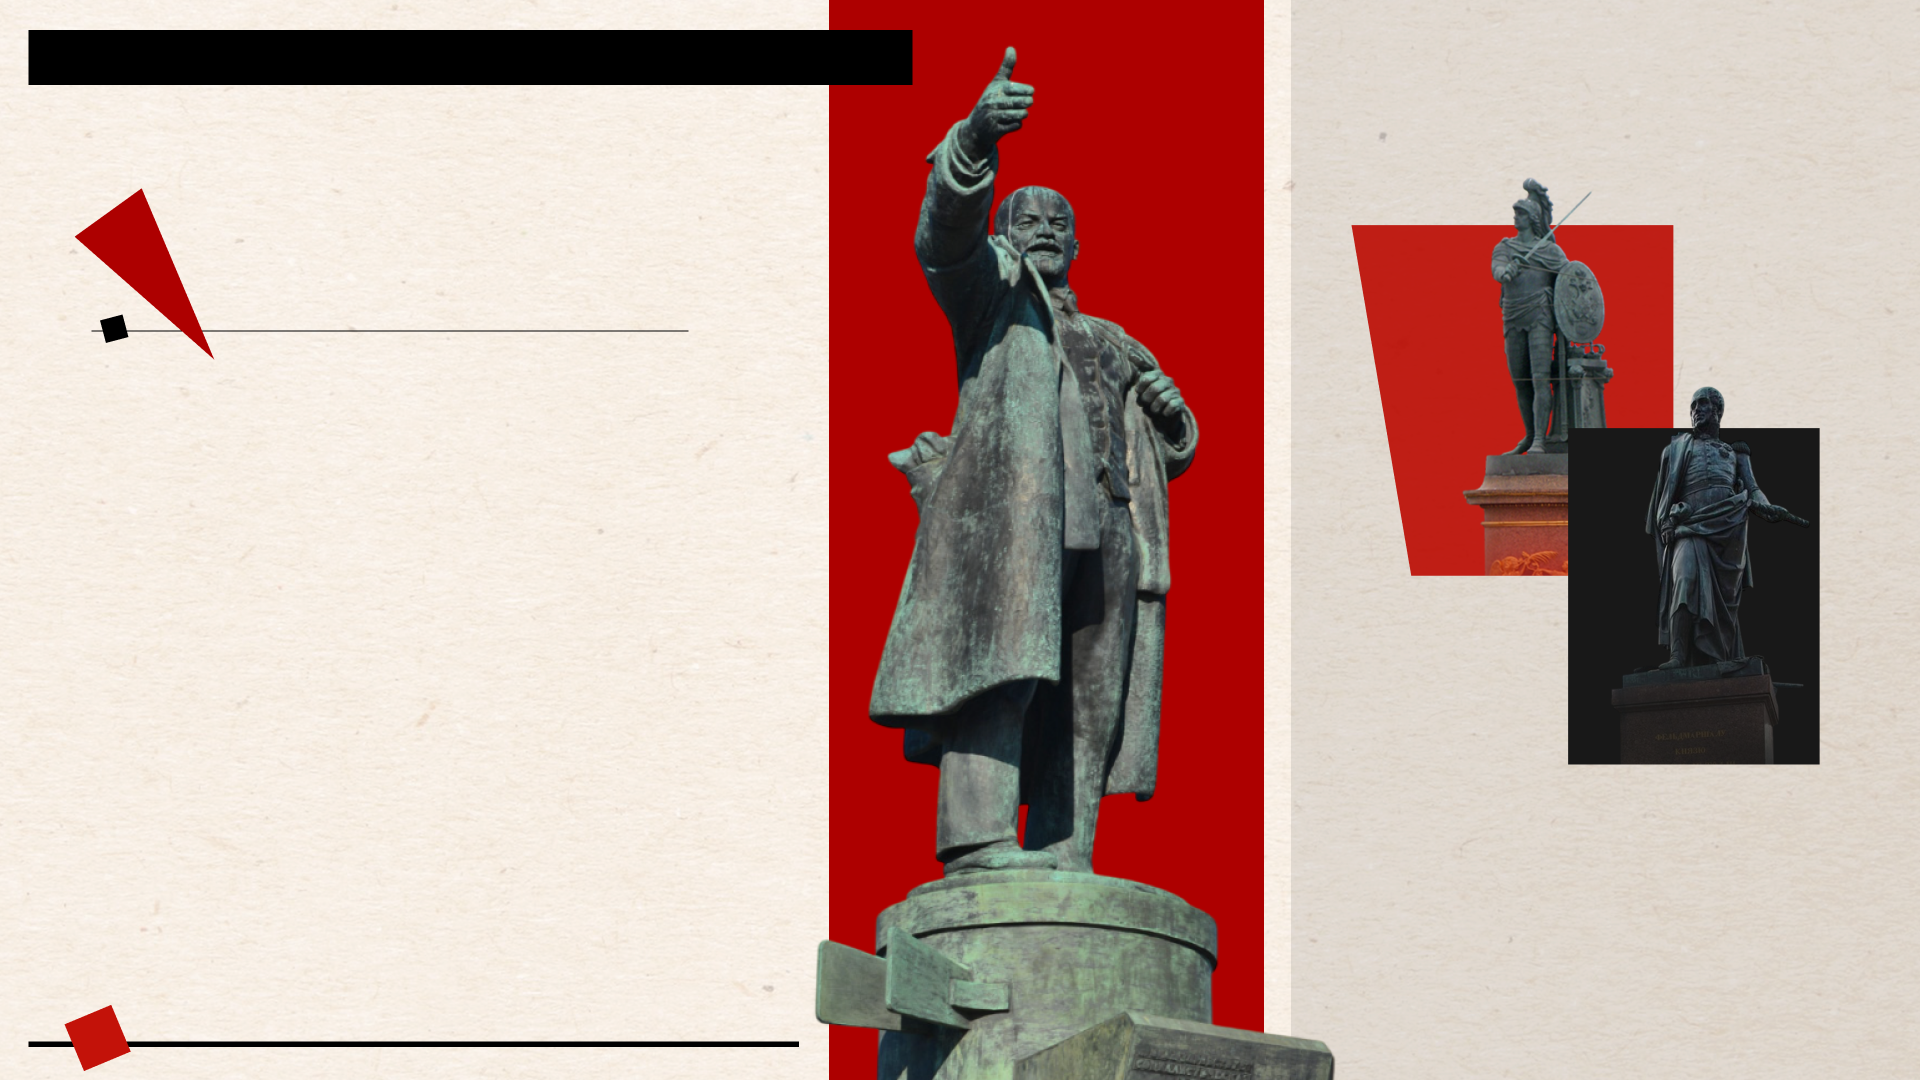
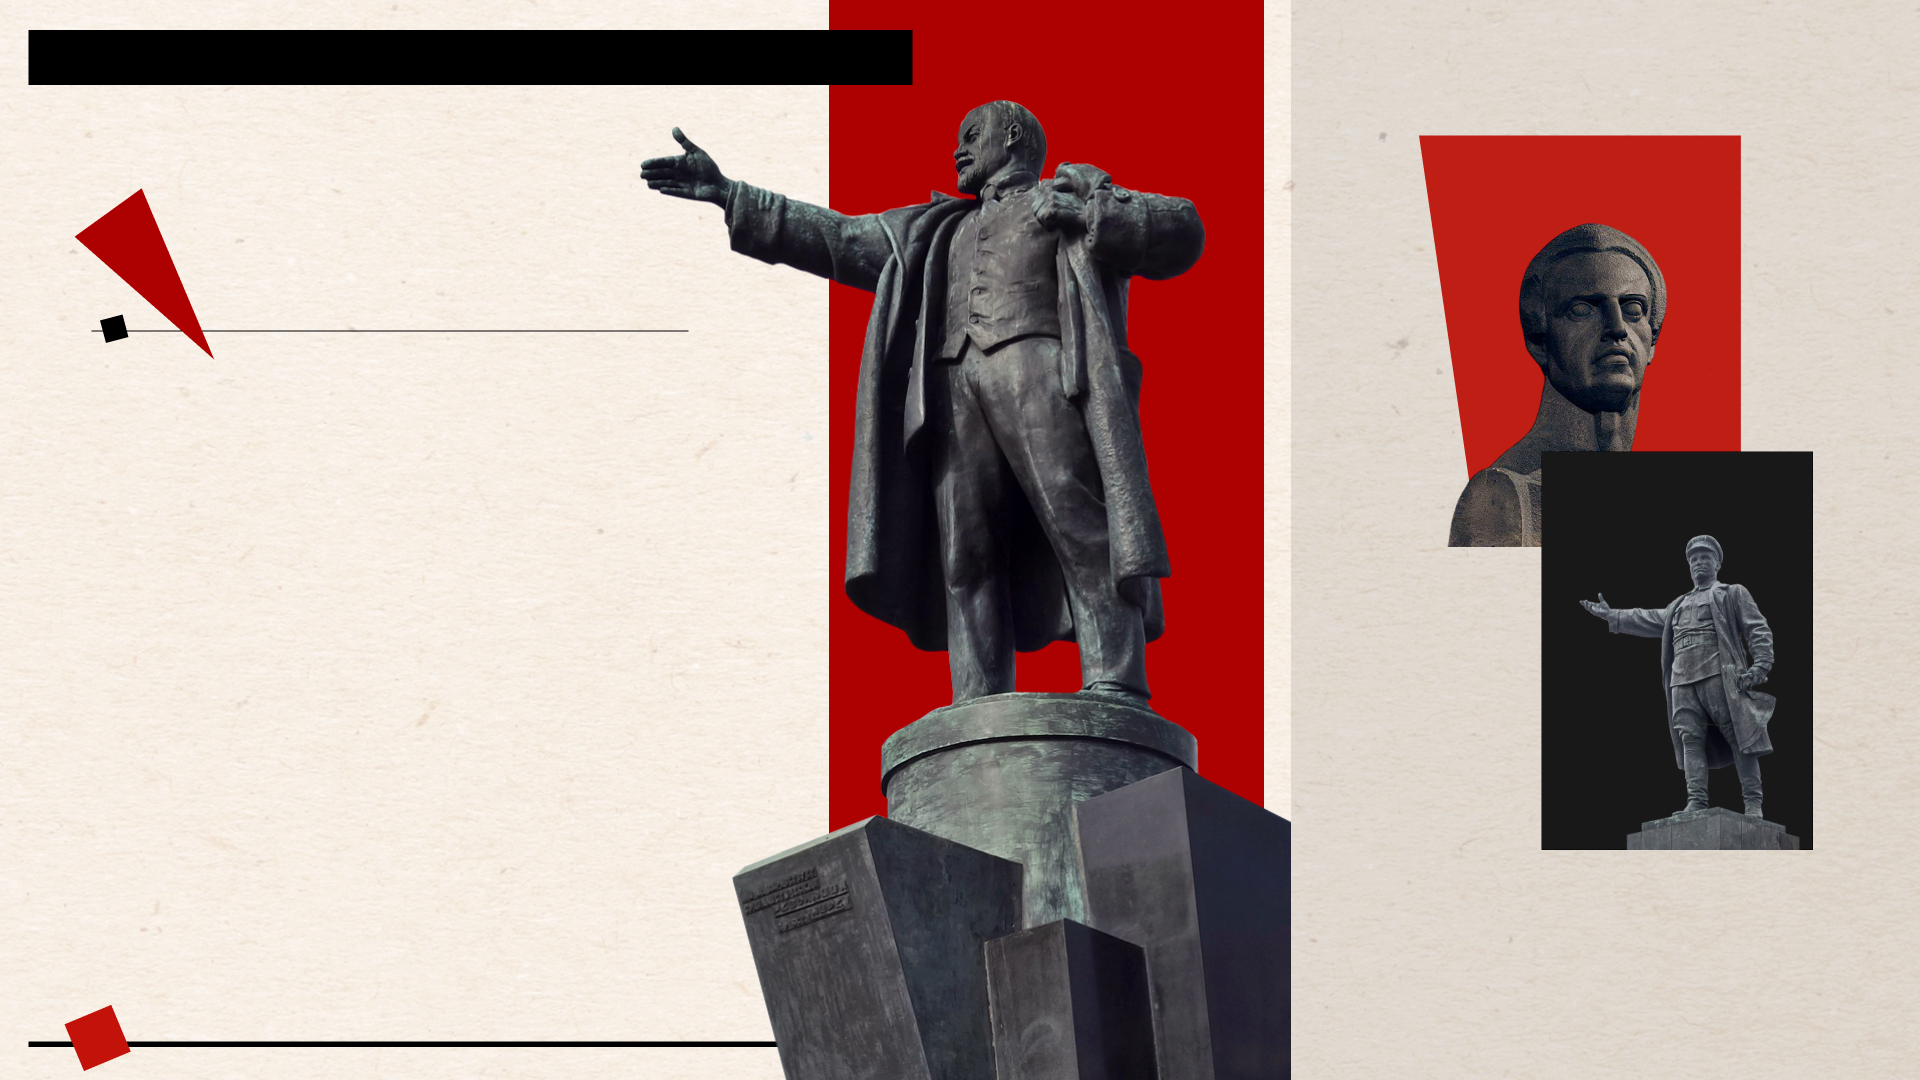
fix

Changed region(s): [[0.3125, 0.0306, 0.7188, 1.0], [0.6875, 0.1222, 0.9688, 0.7944]]

diff --git a/src/pages/Catalog/Catalog.jsx b/src/pages/Catalog/Catalog.jsx
@@ -135,12 +135,12 @@ function Catalog() {
             {filteredItems.length === 0 ? (
               <p className={styles.catalogEmpty}>По вашему запросу ничего не найдено. Измените фильтры или поиск.</p>
             ) : (
-            visibleItems.map((item, index) => {
-              const blockPositionClass =
-                index === 0 ? ''
-                : index === 1 ? styles.catalogItemMiddle
-                : index === 2 ? ''
-                : styles.catalogItemTop
+              visibleItems.map((item, index) => {
+                const blockPositionClass =
+                  index === 0 ? ''
+                    : index === 1 ? styles.catalogItemMiddle
+                      : index === 2 ? ''
+                        : styles.catalogItemTop
 
                 return (
                   <div
@@ -180,9 +180,6 @@ function Catalog() {
             >
               <ArrowLeftIcon fontSize='large' />
             </button>
-            <span className={styles.catalogCounter}>
-              {currentItemIndex + 1}–{Math.min(currentItemIndex + VISIBLE_ITEMS, filteredItems.length)} из {filteredItems.length}
-            </span>
             <button
               className={styles.catalogArrow}
               onClick={handleNextItem}

diff --git a/src/components/PhotoGallery/PhotoGallery.module.css b/src/components/PhotoGallery/PhotoGallery.module.css
@@ -34,8 +34,7 @@
 }
 
 .photoGalleryImage {
-  width: 100%;
-  height: 100%;
+  height: 600px;
   object-fit: cover;
   cursor: pointer;
   transition: transform 0.3s ease, opacity 0.3s ease;
@@ -139,7 +138,7 @@
 .photoGalleryFullscreen .photoGalleryContainer {
   width: 90% !important;
   height: 90% !important;
-  max-width: 1200px !important;
+  max-width: 1400px !important;
   max-height: 800px !important;
   min-height: auto !important;
   aspect-ratio: auto !important;
@@ -152,6 +151,8 @@
 
 .photoGalleryFullscreen .photoGalleryImage {
   object-fit: contain;
+  width: 100%;
+  height: 100%;
 }
 
 .photoGalleryFullscreen .photoGalleryArrow {

diff --git a/src/components/VideoPreview/VideoPreview.jsx b/src/components/VideoPreview/VideoPreview.jsx
@@ -1,9 +1,11 @@
 import { useState, useEffect } from 'react'
 import styles from './VideoPreview.module.css'
+import mainPageImg from '../../assets/main_page_img.png'
+import mainPageImg4k from '../../assets/main_page_img-4k.png'
 
 // Заставка: файлы из public (main_page_img.jpg, main_page_img-4k.jpg) или из assets через import
-const DEFAULT_SPLASH = '/main_page_img.jpg'
-const DEFAULT_SPLASH_4K = '/main_page_img-4k.jpg'
+const DEFAULT_SPLASH = mainPageImg
+const DEFAULT_SPLASH_4K = mainPageImg4k
 
 function VideoPreview({ onComplete }) {
   const [showPreview, setShowPreview] = useState(true)

diff --git a/src/pages/CatalogItem/CatalogItem.module.css b/src/pages/CatalogItem/CatalogItem.module.css
@@ -73,7 +73,7 @@
 
 .catalogItemName {
   font-family: 'Raleway-v4020', 'Raleway', serif !important;
-  font-size: clamp(1.25rem, 3vw, 2rem);
+  font-size: clamp(1.25rem, 3vw, 1.5rem);
   color: #221102;
   margin-bottom: 20px;
   font-weight: 700;
@@ -193,7 +193,7 @@
 .catalogItemGallery > div > div {
   width: 100% !important;
   min-height: 450px !important;
-  max-height: 550px !important;
+  max-height: 600px !important;
   aspect-ratio: auto !important;
 }
 

diff --git a/src/pages/MainMenu/MainMenu.module.css b/src/pages/MainMenu/MainMenu.module.css
@@ -79,7 +79,7 @@
 
 .mainMenuText {
   font-family: 'Raleway-v4020', 'Raleway', serif !important;
-  font-size: clamp(1.25rem, 4vw, 2.25rem);
+  font-size: clamp(1.25rem, 4vw, 2.1rem);
   line-height: 1.6;
   color: #000000;
   font-weight: bold;
@@ -135,7 +135,7 @@
 .mainMenuCatalogBtnContainer {
   position: absolute;
   right: 7%;
-  bottom: 10%;
+  bottom: 7%;
 }
 
 .mainMenuCatalogBtn {

diff --git a/src/components/ProgressLine/ProgressLine.module.css b/src/components/ProgressLine/ProgressLine.module.css
@@ -60,7 +60,7 @@
   max-width: min(400px, 85vw);
   min-height: 40px;
   background: transparent;
-  color: #000;
+  color: #fff;
   padding: clamp(8px, 1.5vw, 10px) clamp(12px, 2vw, 16px);
   line-height: 1.35;
   letter-spacing: 0.02em;
@@ -89,6 +89,7 @@
 
 .progressLinePointActive .progressLineLabel {
   background: #fff;
+  color: #000;
   transition: all 0.3s ease;
 }
 

diff --git a/src/components/VideoPreview/VideoPreview.module.css b/src/components/VideoPreview/VideoPreview.module.css
@@ -21,7 +21,7 @@
 .videoPreviewImage {
   width: 100%;
   height: 100%;
-  object-fit: cover;
+
   object-position: center;
   cursor: pointer;
   display: block;